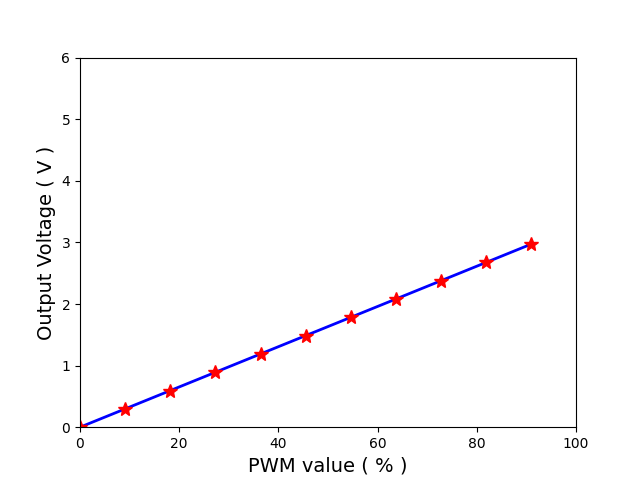
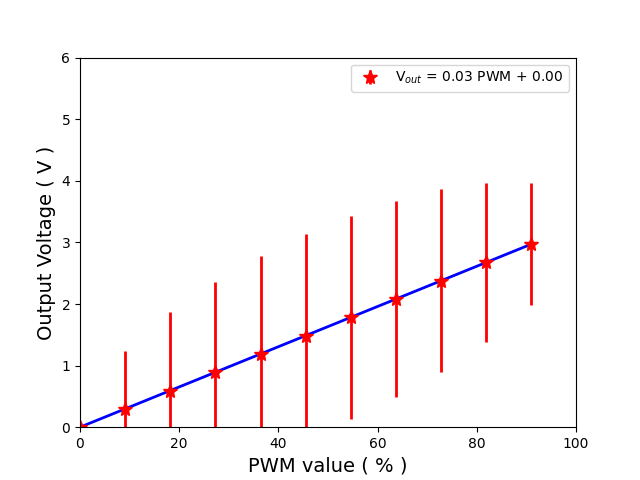
Minor Edit
Minor Edit

diff --git a/uHeatCtrl/uHeatCtrl/MCVS_Lib.py b/uHeatCtrl/uHeatCtrl/MCVS_Lib.py
@@ -216,7 +216,8 @@ def Calibrate_Single_Channel_Processing(brdName, pwmChnnl, calData, loud = False
 
             args.fig_name = '%(v1)s_Pin_%(v2)s_Cal_Curve'%{"v1":brdName, "v2":pwmChnnl}
 
-            Plotting.plot_single_linear_fit_curve(calData[:,0], calData[:,1], args)
+            #Plotting.plot_single_linear_fit_curve(calData[:,0], calData[:,1], args)
+            Plotting.plot_single_linear_fit_curve_with_errors(calData[:,0], calData[:,1], calData[:,2], args)
         else:
             if c1 != True: ERR_STATEMENT += "\ncalData is empty"
             raise Exception
